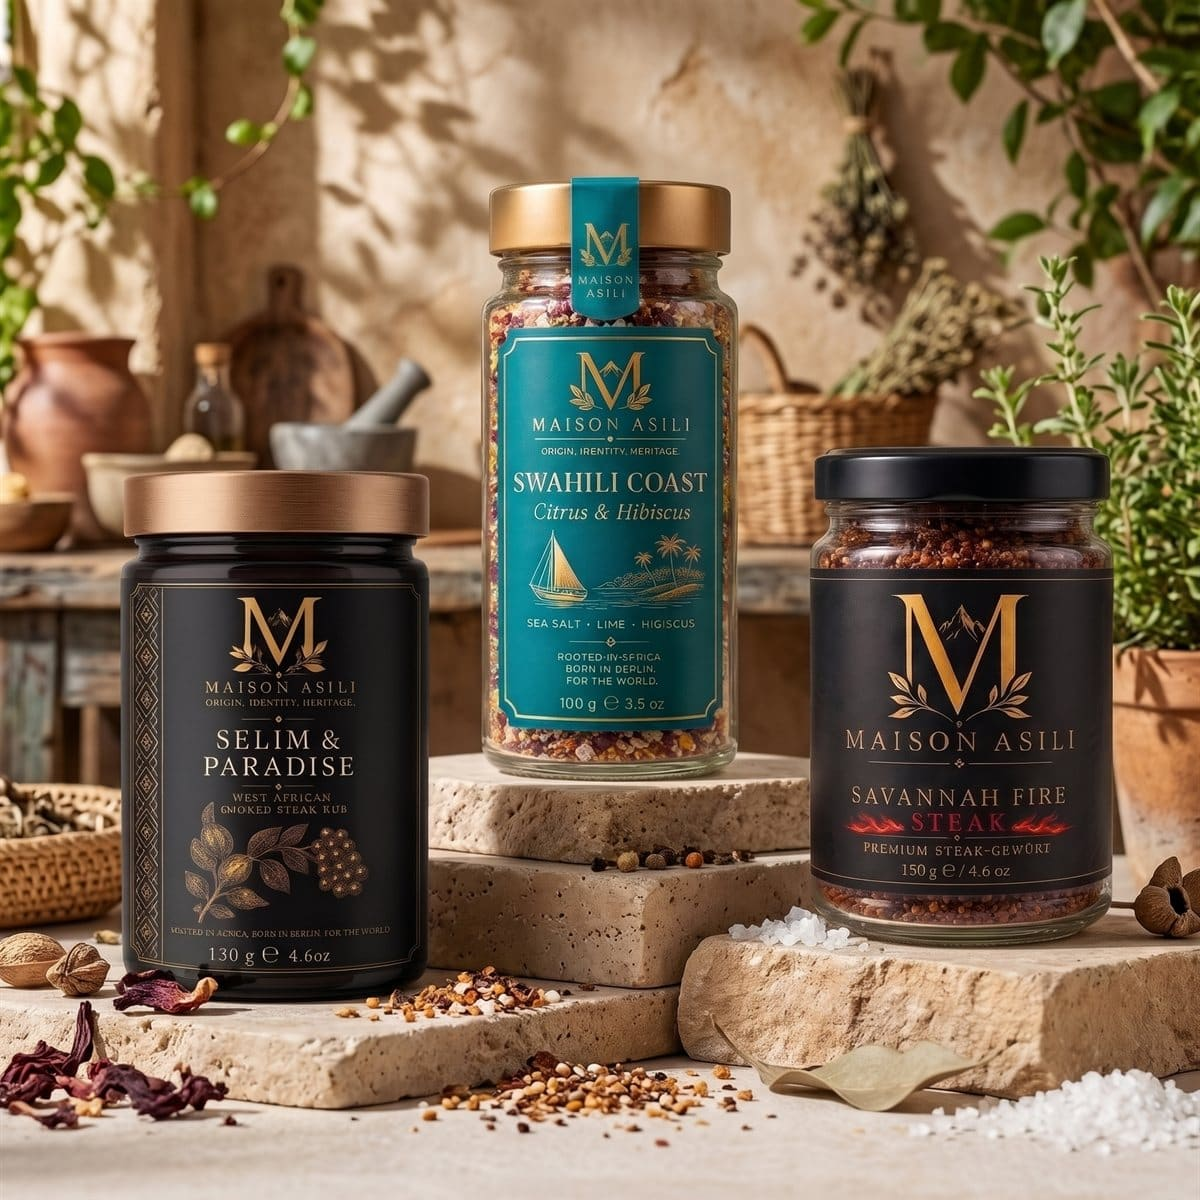
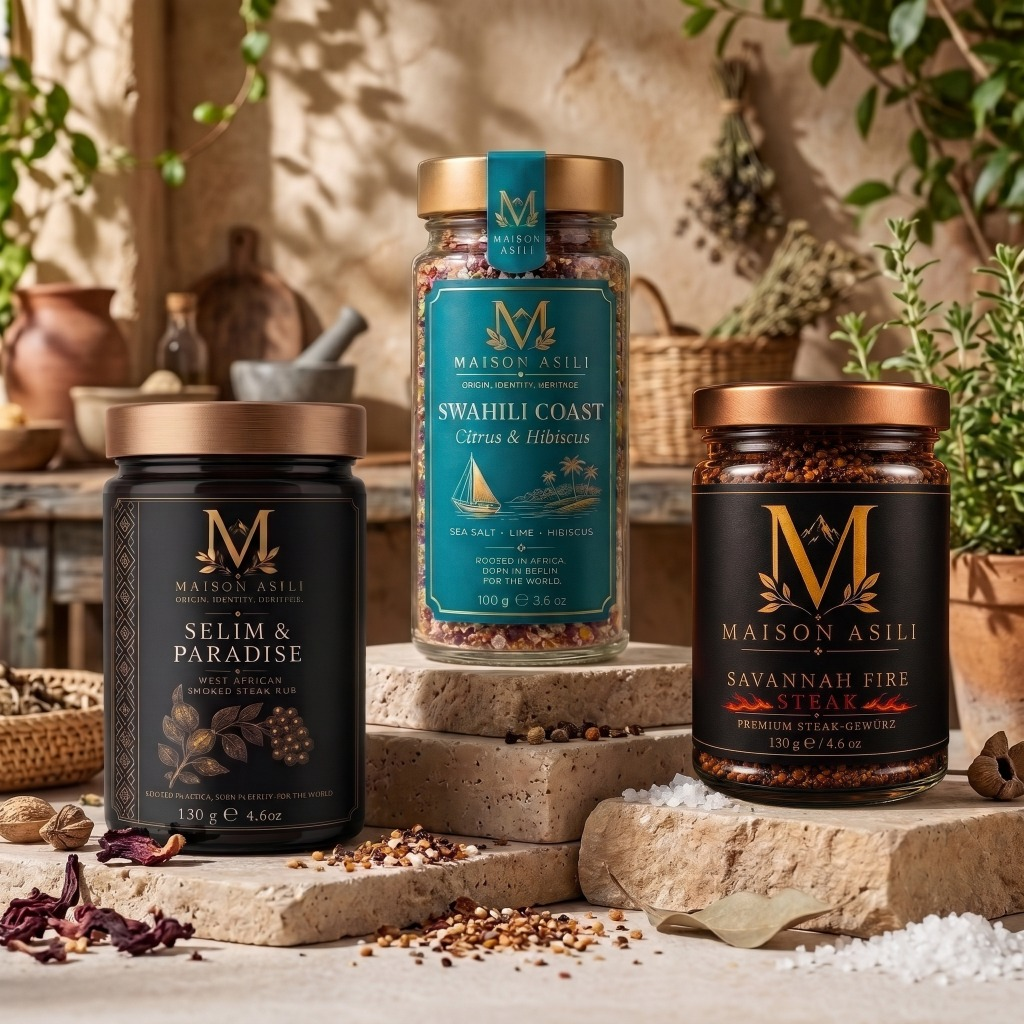
Update spices collection cover image with 3-jar editorial photo

diff --git a/src/components/collection-cards.tsx b/src/components/collection-cards.tsx
@@ -5,7 +5,7 @@ import { InteractiveTravelCard } from '@/components/interactive-travel-card';
 import { collections, assetPath } from '@/lib/catalog';
 
 const collectionCoverImages: Record<string, string> = {
-  spices: 'assets/img/products/selim-and-paradise.jpg',
+  spices: 'assets/img/collections/spices.jpg',
   salts: 'assets/img/products/tropical-pink-pepper-salt.jpg',
   tea: 'assets/img/products/royal-purple-elixir.jpg',
   oils: 'assets/img/collections/oils.jpg',
